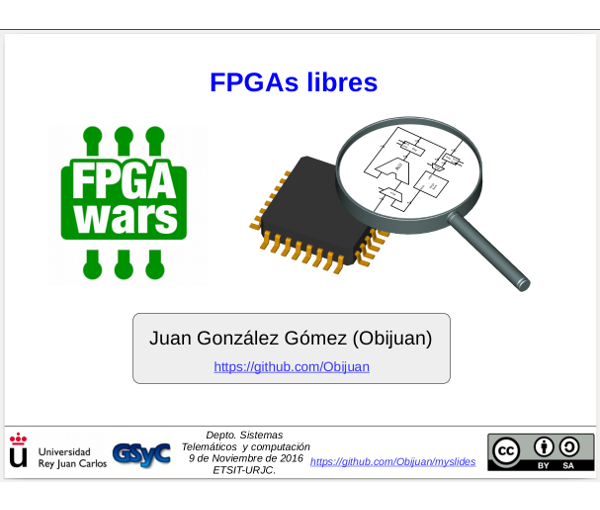
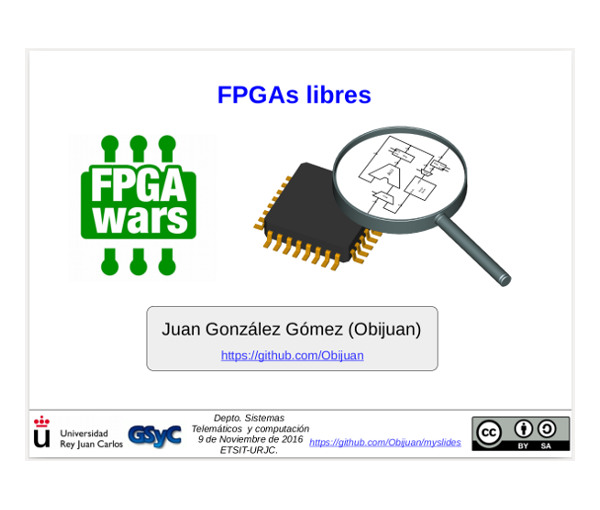
Update images style

diff --git a/css/FPGAwars.min.css b/css/FPGAwars.min.css
@@ -1,5 +1,5 @@
 /*!
- * FPGAwars v0.0.1-dev (http://fpgawars.github.io/)
+ * FPGAwars v1.0.0 (http://fpgawars.github.io/)
  * Copyleft 2016 FPGAwars
  * Licensed under GPL-2.0
  */.btn-primary.active,.btn-primary:active,.btn-xl.active,.btn-xl:active,.open .dropdown-toggle.btn-primary,.open .dropdown-toggle.btn-xl{background-image:none}body{overflow-x:hidden;font-family:"Roboto Slab","Helvetica Neue",Helvetica,Arial,sans-serif;webkit-tap-highlight-color:#007500}.btn-primary,.btn-xl,h1,h2,h3,h4,h5,h6{font-family:Montserrat,"Helvetica Neue",Helvetica,Arial,sans-serif;text-transform:uppercase;font-weight:700}.text-muted{color:#777}.text-primary{color:#007500}p{font-size:14px;line-height:1.75}p.large{font-size:16px}a{color:#222;outline:0;-webkit-transition:all .3s;-moz-transition:all .3s;transition:all .3s}a:active,a:focus,a:hover{color:#007500;text-decoration:none}.img-centered{margin:0 auto}.bg-light-white{background-color:#fff}.bg-light-gray{background-color:#eee}.bg-darkest-gray{background-color:#222}.btn-primary{color:#fff;background-color:#007500;border-color:#007500}.btn-primary.active,.btn-primary:active,.btn-primary:focus,.btn-primary:hover,.open .dropdown-toggle.btn-primary{color:#fff;background-color:#004200;border-color:#003800}.btn-primary.disabled,.btn-primary.disabled.active,.btn-primary.disabled:active,.btn-primary.disabled:focus,.btn-primary.disabled:hover,.btn-primary[disabled],.btn-primary[disabled].active,.btn-primary[disabled]:active,.btn-primary[disabled]:focus,.btn-primary[disabled]:hover,fieldset[disabled] .btn-primary,fieldset[disabled] .btn-primary.active,fieldset[disabled] .btn-primary:active,fieldset[disabled] .btn-primary:focus,fieldset[disabled] .btn-primary:hover{background-color:#007500;border-color:#007500}.btn-primary .badge{color:#007500;background-color:#fff}.btn-xl{color:#fff;background-color:#007500;border-color:#007500;border-radius:3px;font-size:18px;padding:20px 40px}.btn-xl.active,.btn-xl:active,.btn-xl:focus,.btn-xl:hover,.open .dropdown-toggle.btn-xl{color:#fff;background-color:#004200;border-color:#003800}.btn-xl.disabled,.btn-xl.disabled.active,.btn-xl.disabled:active,.btn-xl.disabled:focus,.btn-xl.disabled:hover,.btn-xl[disabled],.btn-xl[disabled].active,.btn-xl[disabled]:active,.btn-xl[disabled]:focus,.btn-xl[disabled]:hover,fieldset[disabled] .btn-xl,fieldset[disabled] .btn-xl.active,fieldset[disabled] .btn-xl:active,fieldset[disabled] .btn-xl:focus,fieldset[disabled] .btn-xl:hover{background-color:#007500;border-color:#007500}.btn-xl .badge{color:#007500;background-color:#fff}.navbar-custom{background-color:#222;border-color:transparent}.navbar-custom .navbar-brand{color:#fff;font-family:"Roboto Slab","Helvetica Neue",Helvetica,Arial,sans-serif}.navbar-custom .nav li a,.navbar-custom .navbar-toggle{font-family:Montserrat,"Helvetica Neue",Helvetica,Arial,sans-serif;color:#fff;text-transform:uppercase}.navbar-custom .navbar-brand:focus,.navbar-custom .navbar-brand:hover{color:#fff}.navbar-custom .navbar-collapse{border-color:rgba(255,255,255,.02)}.navbar-custom .navbar-toggle{background-color:#007500;border-color:#007500;font-size:12px}.navbar-custom .navbar-toggle:focus,.navbar-custom .navbar-toggle:hover{background-color:#007500}.navbar-custom .nav li a{font-weight:400;letter-spacing:1px}.navbar-custom .nav li a:focus,.navbar-custom .nav li a:hover{color:#fff;outline:0}.navbar-custom .nav li a:hover{color:#75ff75}.navbar-custom .navbar-nav>.active>a{border-radius:0;color:#fff;background-color:#007500}.navbar-custom .navbar-nav>.active>a:focus,.navbar-custom .navbar-nav>.active>a:hover{color:#fff;background-color:#007500}@media (min-width:768px){.navbar-custom{background-color:transparent;padding:25px 0;-webkit-transition:padding .3s;-moz-transition:padding .3s;transition:padding .3s;border:none}.navbar-custom .navbar-brand{font-size:2em;-webkit-transition:all .3s;-moz-transition:all .3s;transition:all .3s}.navbar-custom .navbar-nav>.active>a{border-radius:3px}.navbar-custom.affix{background-color:#222;padding:10px 0}.navbar-custom.affix .navbar-brand{font-size:1.5em}}header{background-image:url(../img/header-bg.png);background-repeat:no-repeat;background-attachment:scroll;background-position:center center;-webkit-background-size:cover;-moz-background-size:cover;background-size:cover;-o-background-size:cover;text-align:center;color:#fff}header .intro-text{padding-top:150px;padding-bottom:100px}header .intro-text .intro-phrase{font-family:"Droid Serif","Helvetica Neue",Helvetica,Arial,sans-serif;font-style:italic;font-size:22px;line-height:22px;margin-bottom:25px}header .intro-text .intro-tag{font-family:"Roboto Slab","Helvetica Neue",Helvetica,Arial,sans-serif;color:#77c7f7;font-size:18px;line-height:18px;margin-bottom:25px}@media (min-width:768px){header .intro-text{padding-top:300px;padding-bottom:200px}header .intro-text .intro-phrase{font-family:"Droid Serif","Helvetica Neue",Helvetica,Arial,sans-serif;font-style:italic;font-size:40px;line-height:40px;margin-bottom:25px}header .intro-text .intro-tag{font-family:"Roboto Slab","Helvetica Neue",Helvetica,Arial,sans-serif;color:#77c7f7;font-size:33px;line-height:33px;margin-bottom:45px}}@media (min-width:1600px){header .intro-text{padding-top:380px;padding-bottom:380px}header .intro-text .intro-phrase{font-family:"Droid Serif","Helvetica Neue",Helvetica,Arial,sans-serif;font-style:italic;font-size:48px;line-height:48px;margin-bottom:30px}header .intro-text .intro-tag{font-family:"Roboto Slab","Helvetica Neue",Helvetica,Arial,sans-serif;color:#77c7f7;font-size:40px;line-height:40px;margin-bottom:54px}}.portfolio .portfolio-item .portfolio-caption p,section h3.section-subheading{font-family:"Droid Serif","Helvetica Neue",Helvetica,Arial,sans-serif;font-style:italic}section{padding:100px 0}section h2.section-heading{font-size:40px;margin-top:0;margin-bottom:15px}section h3.section-subheading{font-size:16px;text-transform:none;font-weight:400;margin-bottom:75px}@media (min-width:768px){section{padding:150px 0}}.service-heading{margin:15px 0;text-transform:none}.portfolio .portfolio-item{margin:0 0 30px;right:0}.portfolio .portfolio-item .portfolio-link{display:block;position:relative;max-width:400px;margin:0 auto}.portfolio .portfolio-item .portfolio-link .portfolio-hover{background:rgba(255,255,255,.5);position:absolute;width:100%;height:100%;opacity:0;transition:all ease .3s;-webkit-transition:all ease .3s;-moz-transition:all ease .3s}.portfolio .portfolio-item .portfolio-link .portfolio-hover:hover{opacity:1}.portfolio .portfolio-item .portfolio-link .portfolio-hover .portfolio-hover-content{position:absolute;width:100%;height:20px;font-size:20px;text-align:center;top:50%;margin-top:-12px;color:#fff}.portfolio .portfolio-item .portfolio-link .portfolio-hover .portfolio-hover-content i{margin-top:-12px}.portfolio .portfolio-item .portfolio-link .portfolio-hover .portfolio-hover-content h3,.portfolio .portfolio-item .portfolio-link .portfolio-hover .portfolio-hover-content h4{margin:0}.portfolio .portfolio-item .portfolio-caption{max-width:400px;margin:0 auto;text-align:center;padding:25px}.portfolio .portfolio-item .portfolio-caption h4{float:left;margin-left:16px}.portfolio .portfolio-item .portfolio-caption i{float:right;margin-right:16px}.portfolio .portfolio-item .portfolio-caption p{font-size:16px;margin-top:10px}footer span.copyleft,footer ul.quicklinks{font-family:Montserrat,"Helvetica Neue",Helvetica,Arial,sans-serif;line-height:40px}.portfolio *{z-index:2}@media (min-width:767px){.portfolio .portfolio-item{margin:0 0 30px}}.team-member{text-align:center;margin-bottom:50px}.team-member img{margin:0 auto;border:7px solid #fff}.team-member h4{margin-top:25px;margin-bottom:0;text-transform:none}.team-member p{margin-top:0}aside.clients img{margin:50px auto}footer{padding:25px 0;text-align:center}footer span.copyleft{text-transform:uppercase;text-transform:none}footer span.invert{display:inline-block;text-align:right;margin:0;font-size:1em;-moz-transform:scaleX(-1);-o-transform:scaleX(-1);-webkit-transform:scaleX(-1);transform:scaleX(-1);filter:FlipH;-ms-filter:FlipH}footer ul.quicklinks{margin-bottom:0;text-transform:uppercase;text-transform:none}ul.social-buttons{margin-bottom:0}ul.social-buttons li a{display:block;background-color:#222;height:40px;width:40px;border-radius:100%;font-size:20px;line-height:40px;color:#fff;outline:0;-webkit-transition:all .3s;-moz-transition:all .3s;transition:all .3s}ul.social-buttons li a:active,ul.social-buttons li a:focus,ul.social-buttons li a:hover{background-color:#007500}.btn.active,.btn:active,.btn:active:focus,.btn:focus{outline:0}.portfolio-modal .modal-dialog{margin:0;height:100%;width:auto}.portfolio-modal .modal-content{border-radius:0;background-clip:border-box;-webkit-box-shadow:none;box-shadow:none;border:none;min-height:100%;padding:100px 0;text-align:center}.portfolio-modal .modal-content h2{margin-bottom:15px;font-size:3em}.portfolio-modal .modal-content p{margin-bottom:30px}.portfolio-modal .modal-content p.item-intro{margin:20px 0 30px;font-family:"Droid Serif","Helvetica Neue",Helvetica,Arial,sans-serif;font-style:italic;font-size:16px}.portfolio-modal .modal-content ul.list-inline{margin-bottom:30px;margin-top:0}.portfolio-modal .modal-content img{margin-bottom:30px;max-width:720px;max-height:660px}.portfolio-modal .close-modal{position:absolute;width:75px;height:75px;background-color:transparent;top:25px;right:25px;cursor:pointer}.portfolio-modal .close-modal:hover{opacity:.3}.portfolio-modal .close-modal .lr{height:75px;width:1px;margin-left:35px;background-color:#222;transform:rotate(45deg);-ms-transform:rotate(45deg);-webkit-transform:rotate(45deg);z-index:1051}.portfolio-modal .close-modal .lr .rl{height:75px;width:1px;background-color:#222;transform:rotate(90deg);-ms-transform:rotate(90deg);-webkit-transform:rotate(90deg);z-index:1052}.portfolio-modal .modal-backdrop{opacity:0;display:none}img::selection{background:0 0}img::-moz-selection{background:0 0}

diff --git a/css/FPGAwars.css b/css/FPGAwars.css
@@ -1,5 +1,5 @@
 /*!
- * FPGAwars v0.0.1-dev (http://fpgawars.github.io/)
+ * FPGAwars v1.0.0 (http://fpgawars.github.io/)
  * Copyleft 2016 FPGAwars
  * Licensed under GPL-2.0
  */

diff --git a/js/FPGAwars.min.js b/js/FPGAwars.min.js
@@ -1,5 +1,5 @@
 /*!
- * FPGAwars v0.0.1-dev (http://fpgawars.github.io/)
+ * FPGAwars v1.0.0 (http://fpgawars.github.io/)
  * Copyleft 2016 FPGAwars
  * Licensed under GPL-2.0
  */
